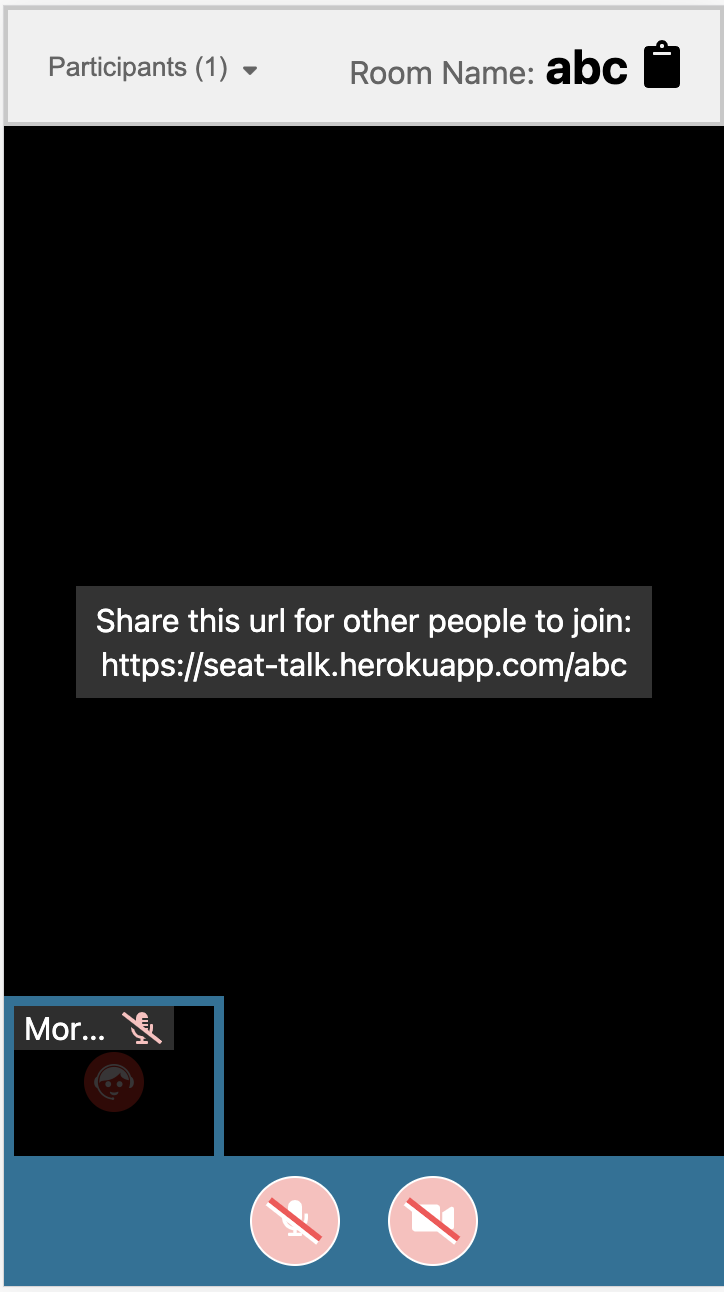
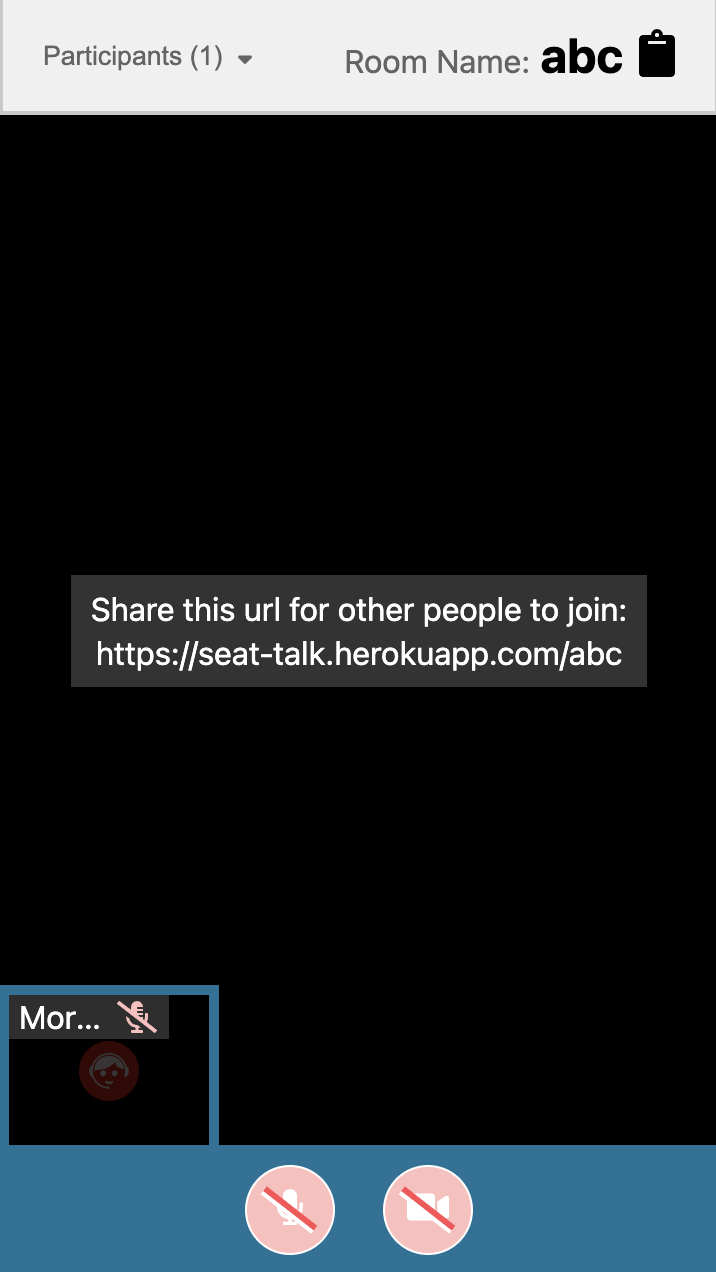
images for seat talk

Changed region(s): [[0.0, 0.0, 1.0, 1.0], [0.0922, 0.4599, 0.8603, 0.5519]]

diff --git a/index.html b/index.html
@@ -597,7 +597,8 @@
       <img src="./images/word-search/word-search-screenshot-landing.png" />
 
       <img src="./images/seat-talk/seat-talk-mobile-1.png" />
-      <img src="./images/seat-talk/seat-talk-landing.png" />
+      <img src="./images/seat-talk/seat-talk-mobile-2.png" />
+      <img src="./images/seat-talk/seat-talk-full-room.png" />
       <img src="./images/seat-talk/seat-talk-empty-room.png" />
     </div>
   </body>

diff --git a/index.js b/index.js
@@ -63,8 +63,10 @@ let seatTalk = {
   counter: 0,
   sources: [
     "./images/seat-talk/seat-talk-landing.png",
+    "./images/seat-talk/seat-talk-full-room.png",
     "./images/seat-talk/seat-talk-empty-room.png",
     "./images/seat-talk/seat-talk-mobile-1.png",
+    "./images/seat-talk/seat-talk-mobile-2.png",
   ],
 };
 
